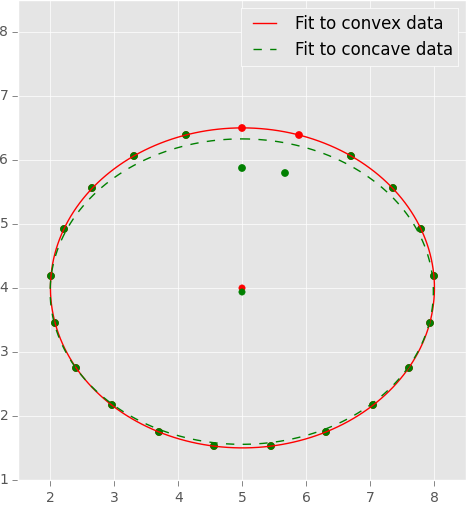
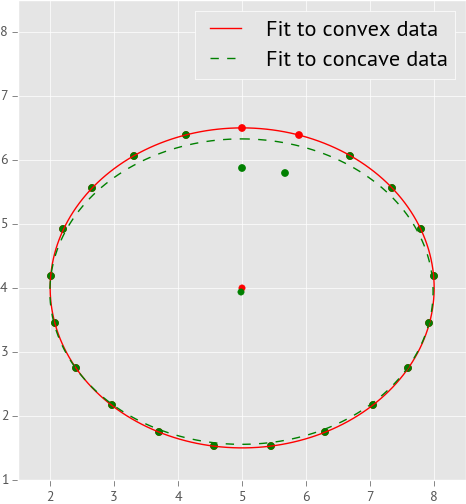
more work on post 3

diff --git a/assets/scripts/ellipse-fitting-demo.py b/assets/scripts/ellipse-fitting-demo.py
@@ -3,9 +3,8 @@ import numpy as np
 import scipy.optimize
 import matplotlib.pyplot as plt
 import matplotlib
-
+matplotlib.rcParams['font.family'] = 'PT Sans'
 # need matplotlib >= 1.4
-#matplotlib.style.use('fivethirtyeight')
 matplotlib.style.use('ggplot')
 
 #font = {'size': 16}
@@ -96,7 +95,7 @@ if __name__ == "__main__":
     plt.plot(x2fit, y2fit, 'g--', linewidth=1, label="Fit to concave data")
     plt.scatter((fit2[0],), (fit2[1],), color='g', marker='o')
 
-    plt.legend()
+    plt.legend(fontsize=16)
     plt.ylim(1, 8.5)
     plt.xlim(1.5, 8.5)
     ## As you noted.

diff --git a/_drafts/2014-08-07-playing-with-photogrammetry-3.md b/_drafts/2014-08-07-playing-with-photogrammetry-3.md
@@ -35,7 +35,7 @@ light and dark parts of the targets. This way I get to leverage a powerful
 algorithm that will give me a much smaller amount of data to work with as well
 as polygons which are situated near the regions I'm interested in.
 
-From wikipedia:
+From Wikipedia:
 
 >   "More generally, a contour line for a function of two variables is a curve
 >   connecting points where the function has the same particular value."
@@ -74,7 +74,7 @@ the original image">
 
 The contour function returns a list of contours and these in turn are basically
 lists of the coordinates of the contours' vertices. So I know I wanted the
-positions of the targets (this is what I'm trying to do, afterall), so there is
+positions of the targets (this is what I'm trying to do, after all), so there is
 a few ways I can do this:
 
 * calculate the centre of mass of the contour vertices
@@ -130,6 +130,53 @@ from the threshold, the convex hull and it is to this that I fitted ellipses.
 
 
 ## Ellipses: I have too many
+
+I went ahead an fit an ellipse to every convex hull of every contour. Again, I utilised the `opencv` function for fitting ellipses to the convex hulls:
+
+{% highlight python %}
+def _find_ellipses(self):
+    ''' finds all the ellipses in the image
+    '''
+    ellipses = []
+    hulls = []
+    # for each contour, fit an ellipse
+    for i, cnt in enumerate(self.contours):
+        # get convex hull of contour
+        hull = cv2.convexHull(cnt, returnPoints=True)
+
+        if len(hull) > 5:
+            ellipse = cv2.fitEllipse(np.array(hull))
+            ellipses.append(ellipse)
+            hulls.append(hulls)
+
+    return ellipses, hulls
+{% endhighlight %}
+
+Note that I offhand discarded contours for which the convex hull contained
+fewer than 5 vertices, the target convex hulls are a bit larger than that.
+
+This is what I got:
+
+<figure>
+  <img src="/assets/images/photogrammetry/all-ellipses.png" alt="All ellipses plotted on one image.">
+  <figcaption>Overabundance.</figcaption>
+</figure>
+
+Every blue blob in that image is an ellipse. See a closeup:
+
+<figure>
+  <img src="/assets/images/photogrammetry/ellipses-closeup.png" alt="Close up iof ellipses fit to some target contours.">
+  <figcaption>Good fits, but I need to get rid of the extra ones.</figcaption>
+</figure>
+
+In the closeup it is clear that the ellipses on the targets are where they
+should be but there are some that are obviously out of place. In particular,
+each black square has an ellipse that basically touches its four corners and
+then there are some that are seemingly fitted on nothing. Remember, they were
+fit on contours that were derived from the threshold image and this is the
+original image I'm using for illustration.
+
+The next step is to thin the herd, so to speak.
 
 
 [^ellipse-fitting-script]: [Python script for ellipse plot](/assets/scripts/ellipse-fitting-demo.py)
